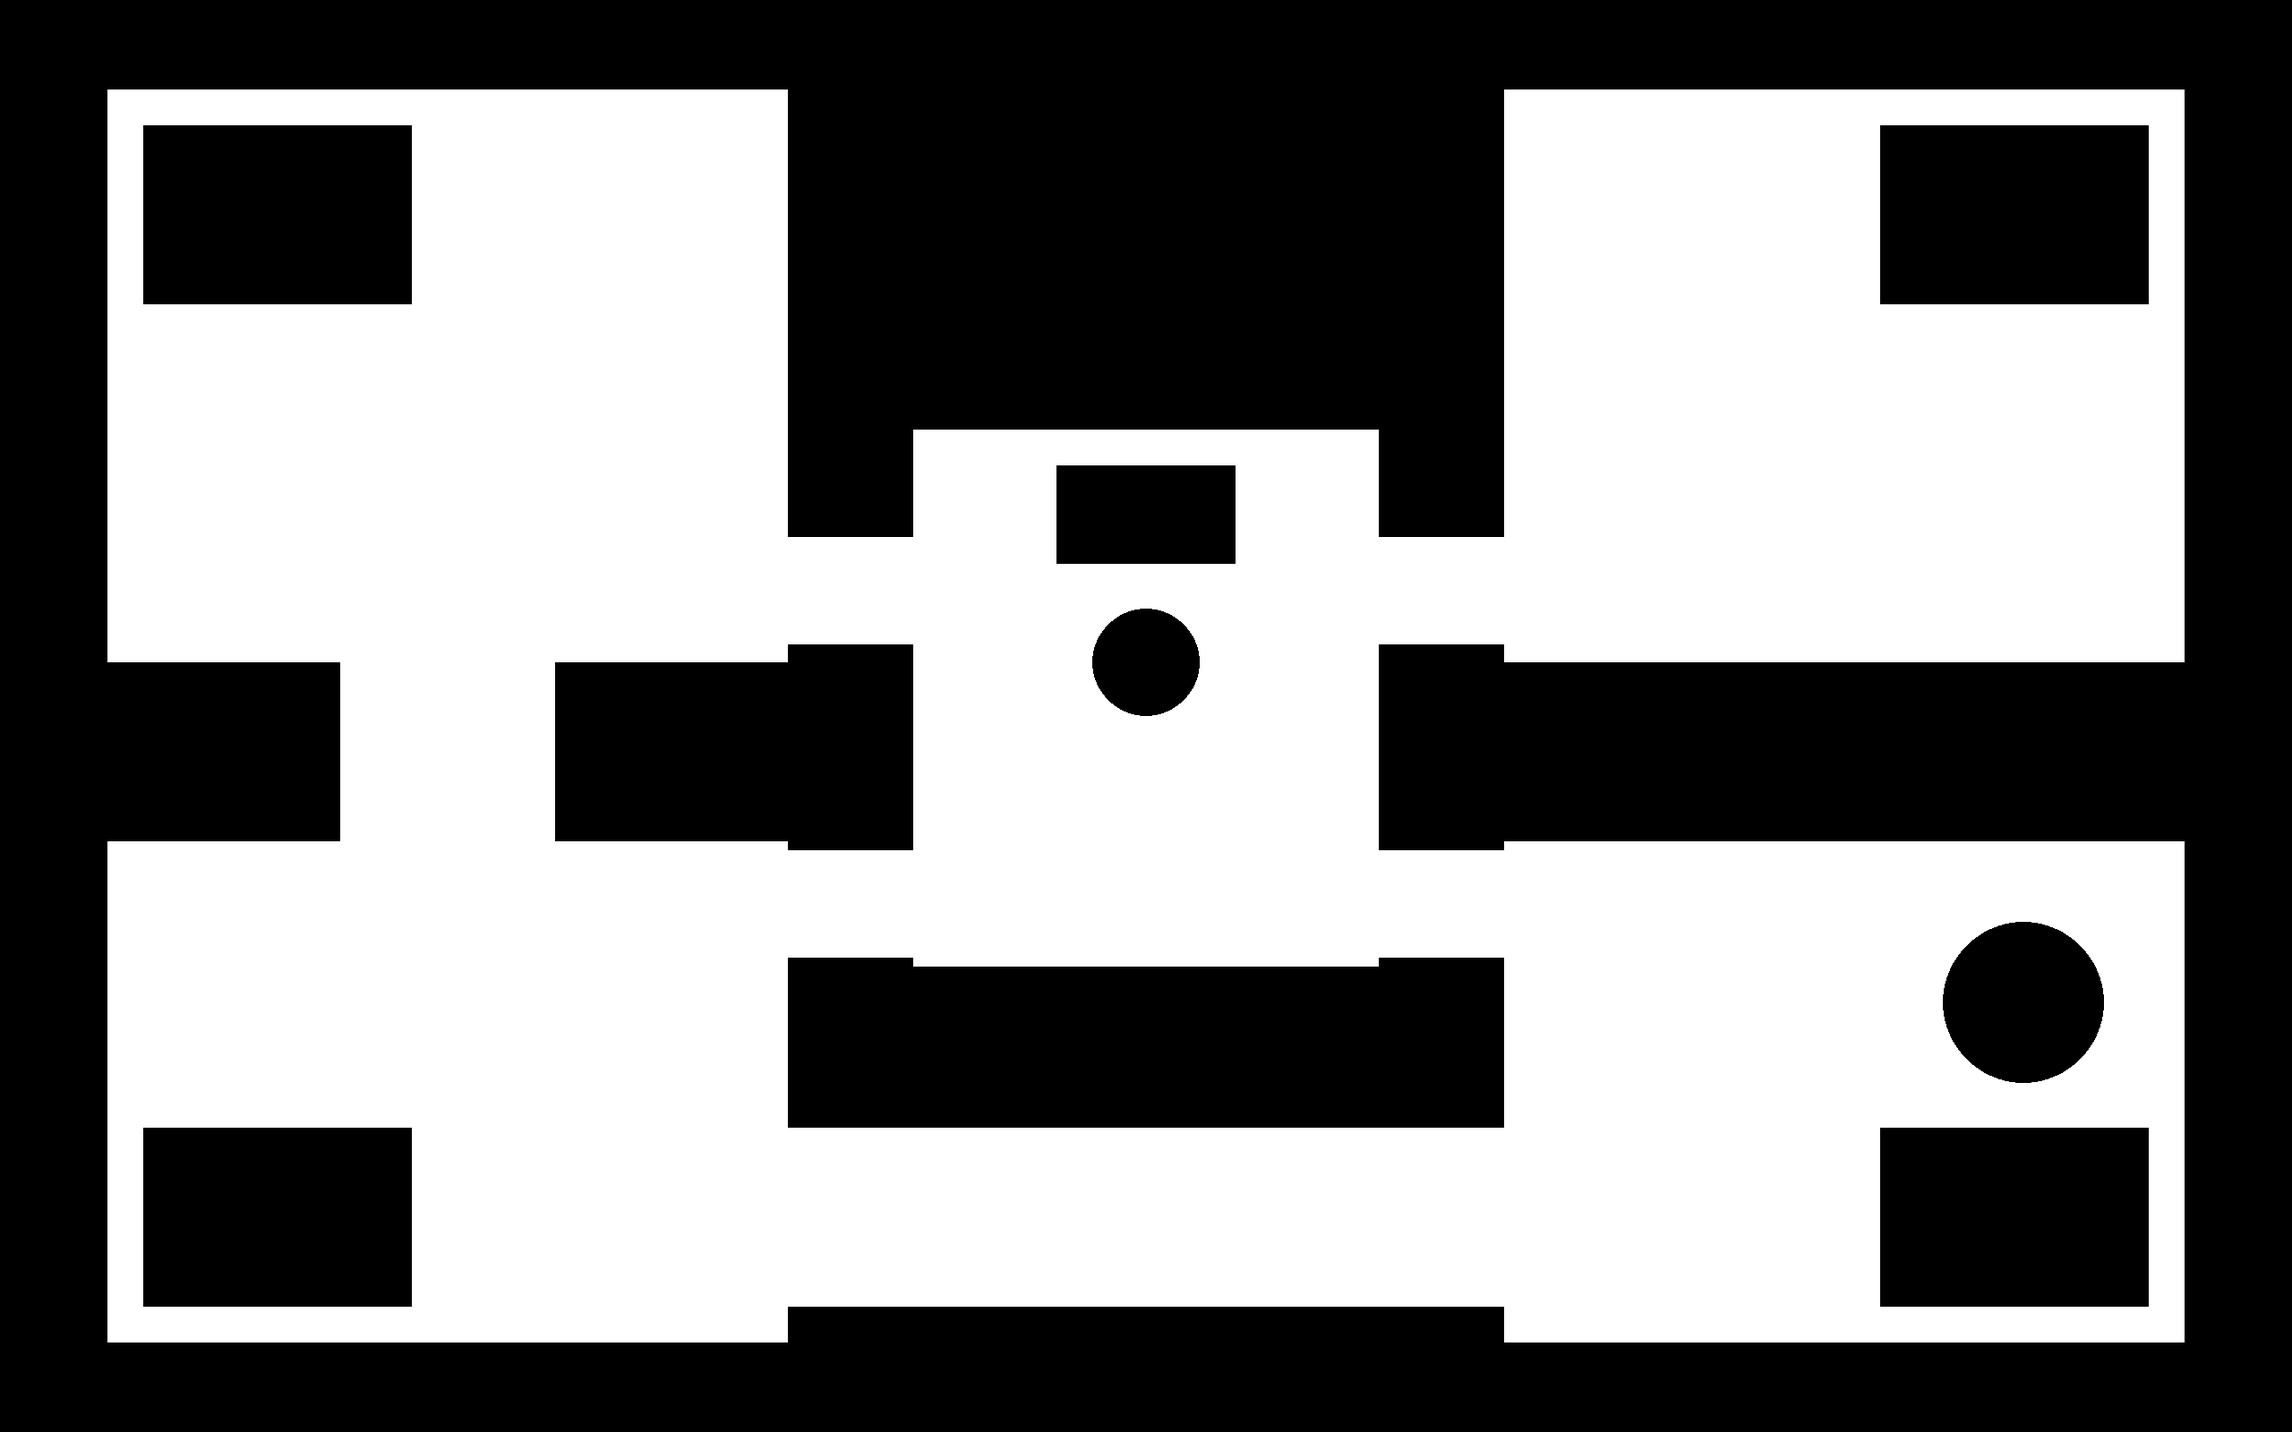
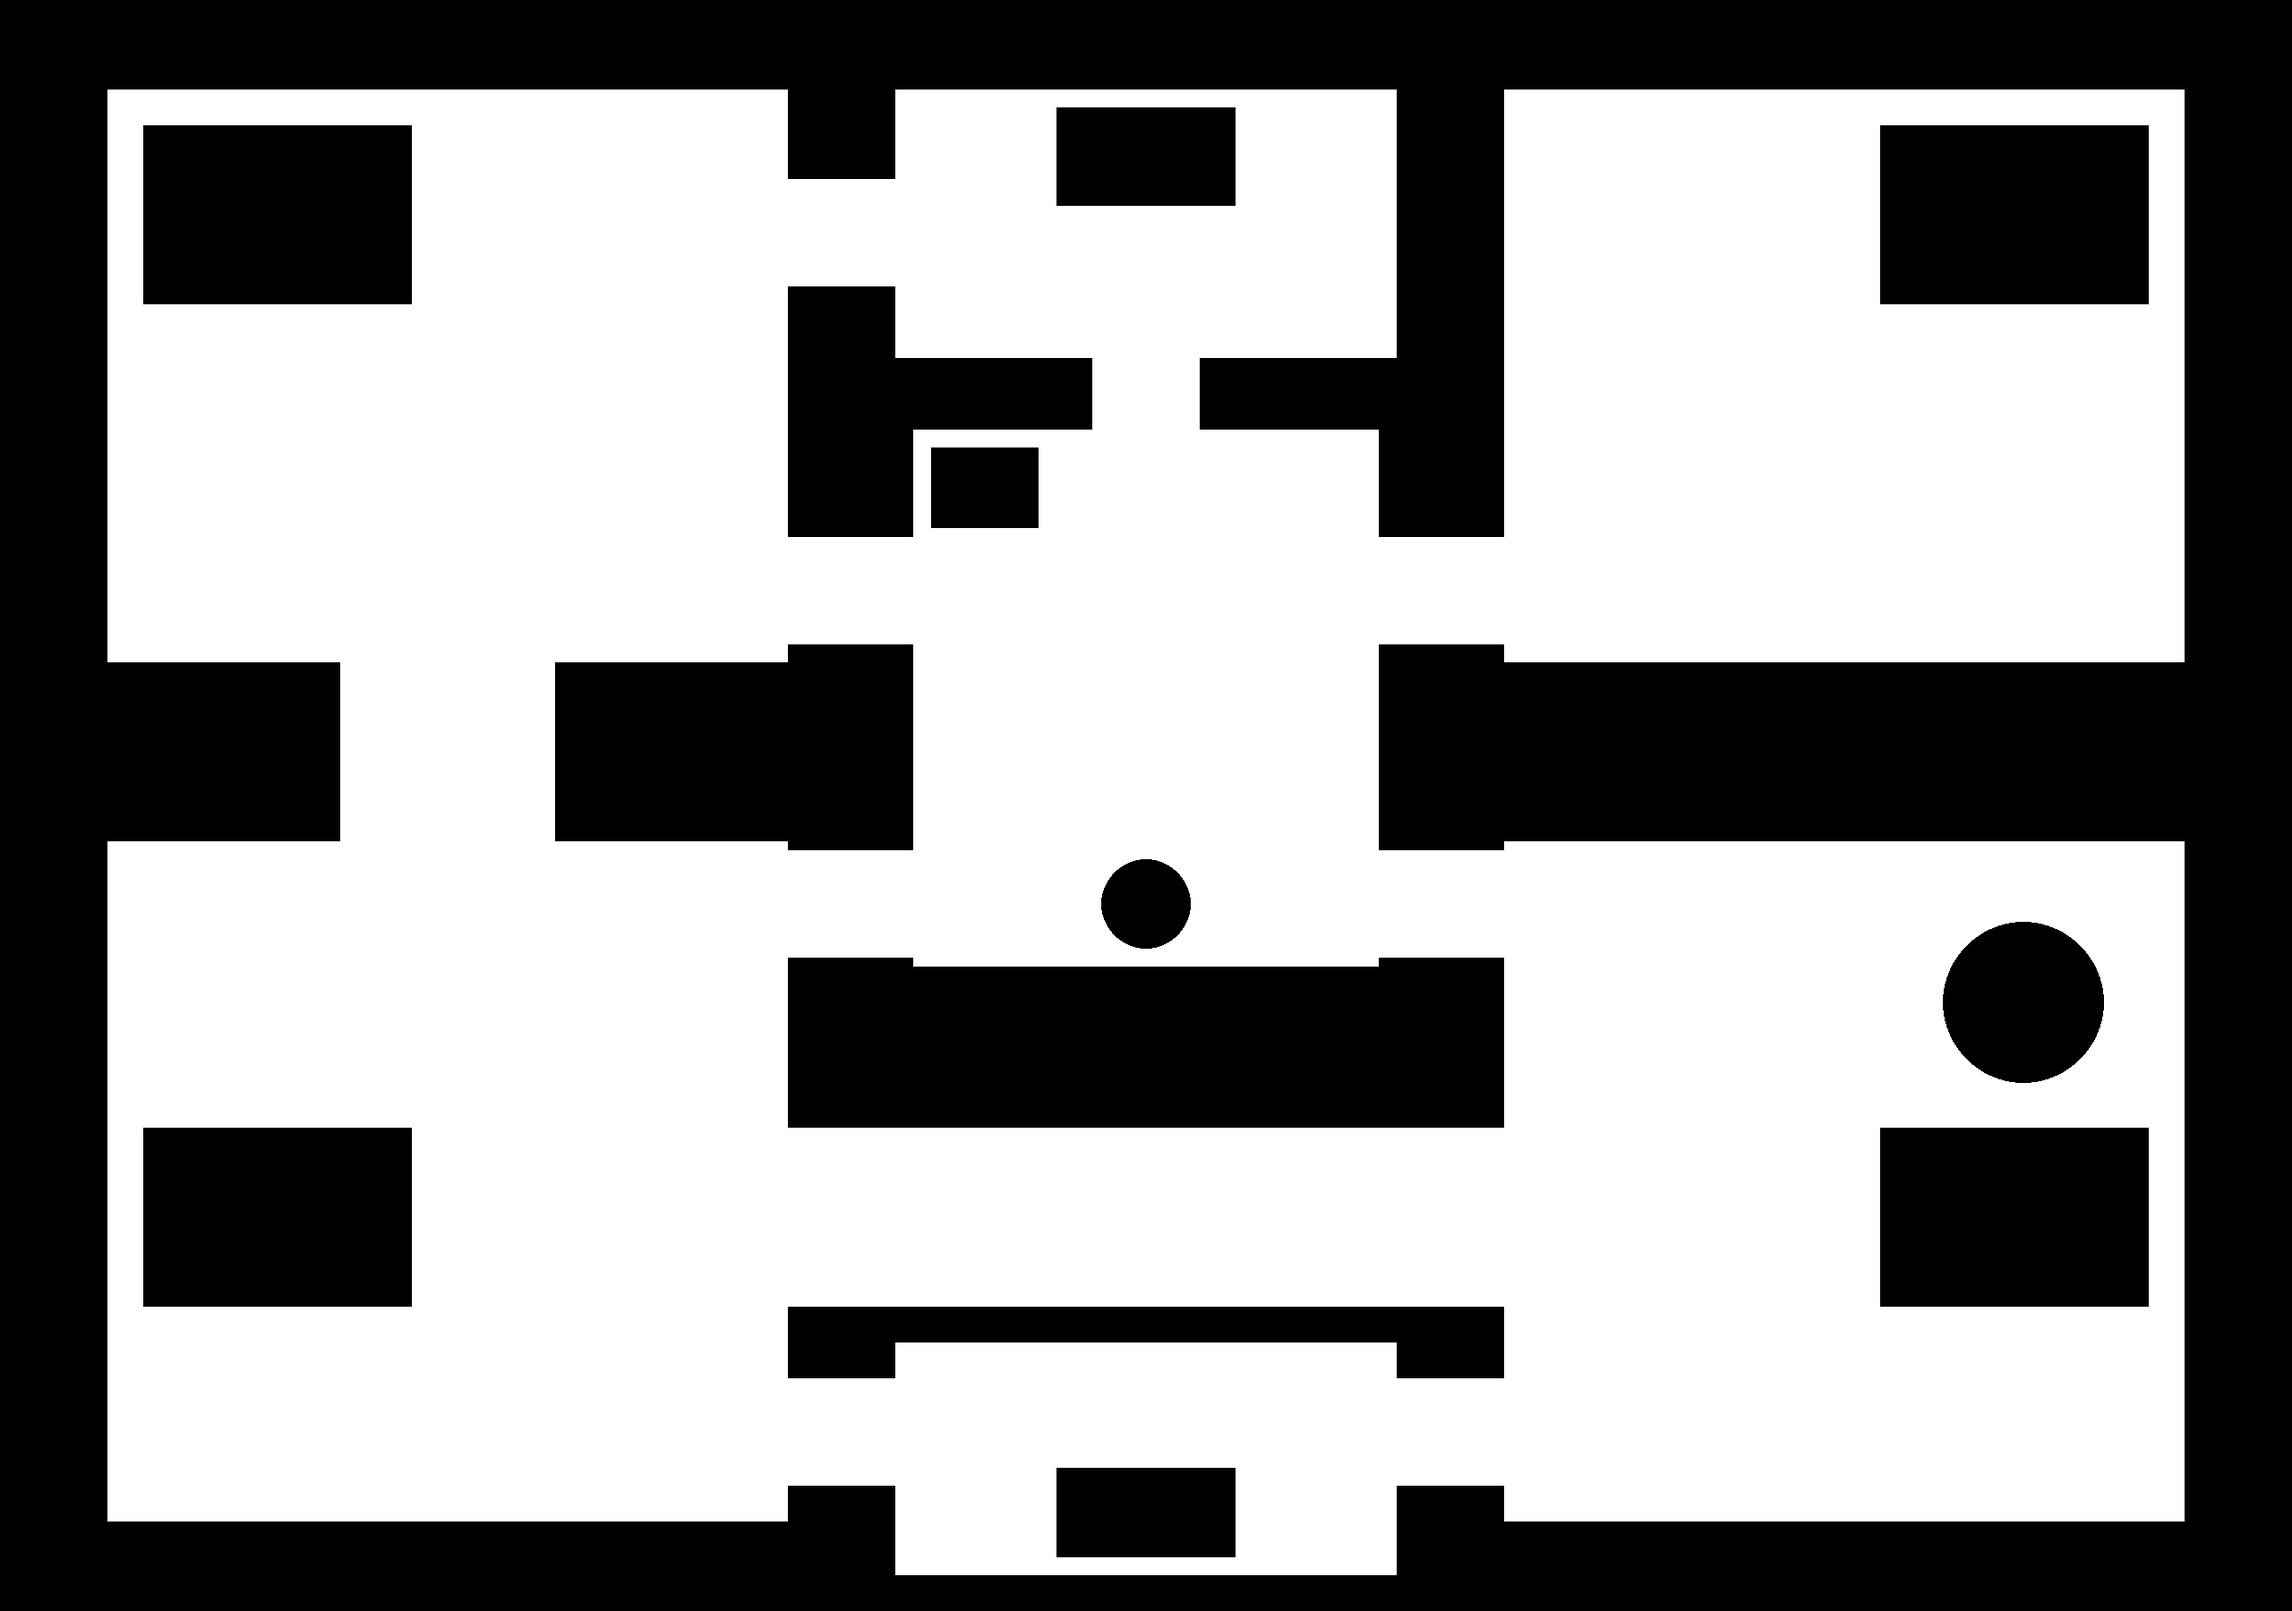
Mapa: Auditorio y Registraduria (en obras hasta su fase), variante de noche y mapa de 2560x1800

diff --git a/src/post_truth/mapa_abierto.py b/src/post_truth/mapa_abierto.py
@@ -35,6 +35,7 @@ class ZonaMapa:
     color: tuple[int, int, int]
     centro: Punto
     edificio: tuple[int, int, int, int]
+    rect: tuple[int, int, int, int]          # su region (para pintar encima obras, crisis o aislamiento)
 
 
 @dataclass(frozen=True)
@@ -59,8 +60,8 @@ class MapaAbierto:
         self.tamano: tuple[int, int] = tuple(datos["tamano"])
         if zonas.get_size() != self.tamano or colisiones.get_size() != self.tamano:
             raise ValueError("Las capas del mapa deben tener el tamano de data/mapa.json")
-        self.zonas = {id: ZonaMapa(id, z["nombre"], _color(z["color"]), tuple(z["centro"]), tuple(z["edificio"]))
-                      for id, z in datos["zonas"].items()}
+        self.zonas = {id: ZonaMapa(id, z["nombre"], _color(z["color"]), tuple(z["centro"]), tuple(z["edificio"]),
+                               tuple(z["rect"])) for id, z in datos["zonas"].items()}
         self._por_color = {z.color: z.id for z in self.zonas.values()}
         self.fronteras = [Frontera(f["desde"], f["hasta"], tuple(f["calle"]), tuple(f["barrera"]), tuple(f["paso"]))
                           for f in datos["fronteras"]]
@@ -109,8 +110,10 @@ class MapaAbierto:
         return any(r.colliderect(f.barrera) for f in self.barreras_activas())
 
     def sincronizar(self, grafo: GrafoCiudad) -> None:
-        """Las fronteras abiertas son las aristas que el grafo tiene: las demas levantan su barrera."""
-        self.cerradas = {f.clave for f in self.fronteras if grafo.distancia(f.desde, f.hasta) is None}
+        """Las fronteras abiertas son las aristas que el grafo tiene: las demas levantan su barrera (tambien las de
+        una zona que aun no es vertice: esta en obras)."""
+        self.cerradas = {f.clave for f in self.fronteras
+                         if f.desde not in grafo or f.hasta not in grafo or grafo.distancia(f.desde, f.hasta) is None}
 
     # --- movimiento -----------------------------------------------------------------------------
     def mover(self, dir_x: float, dir_y: float, dt: float, llegar: Callable[[str], None] | None = None) -> None:

diff --git a/src/post_truth/views/decorado.py b/src/post_truth/views/decorado.py
@@ -64,5 +64,5 @@ def generar(mapa: MapaAbierto, semilla: int = SEMILLA) -> Decorado:
         for lado in (-1, 1):
             p = (f.paso[0] + lado * w / 3, y - 18) if horizontal else (x - 18, f.paso[1] + lado * h / 3)
             faroles.append((*p, rng.uniform(0, 2 * math.pi)))
-    bancas = [(z.centro[0] + dx, z.centro[1] + 70) for z in mapa.zonas.values() for dx in (-90, 90)]
+    bancas = [(z.centro[0] + dx, z.centro[1]) for z in mapa.zonas.values() for dx in (-110, 110)]   # a los lados
     return Decorado((), tuple(arboles), tuple(arbustos), tuple(faroles), tuple(bancas))
